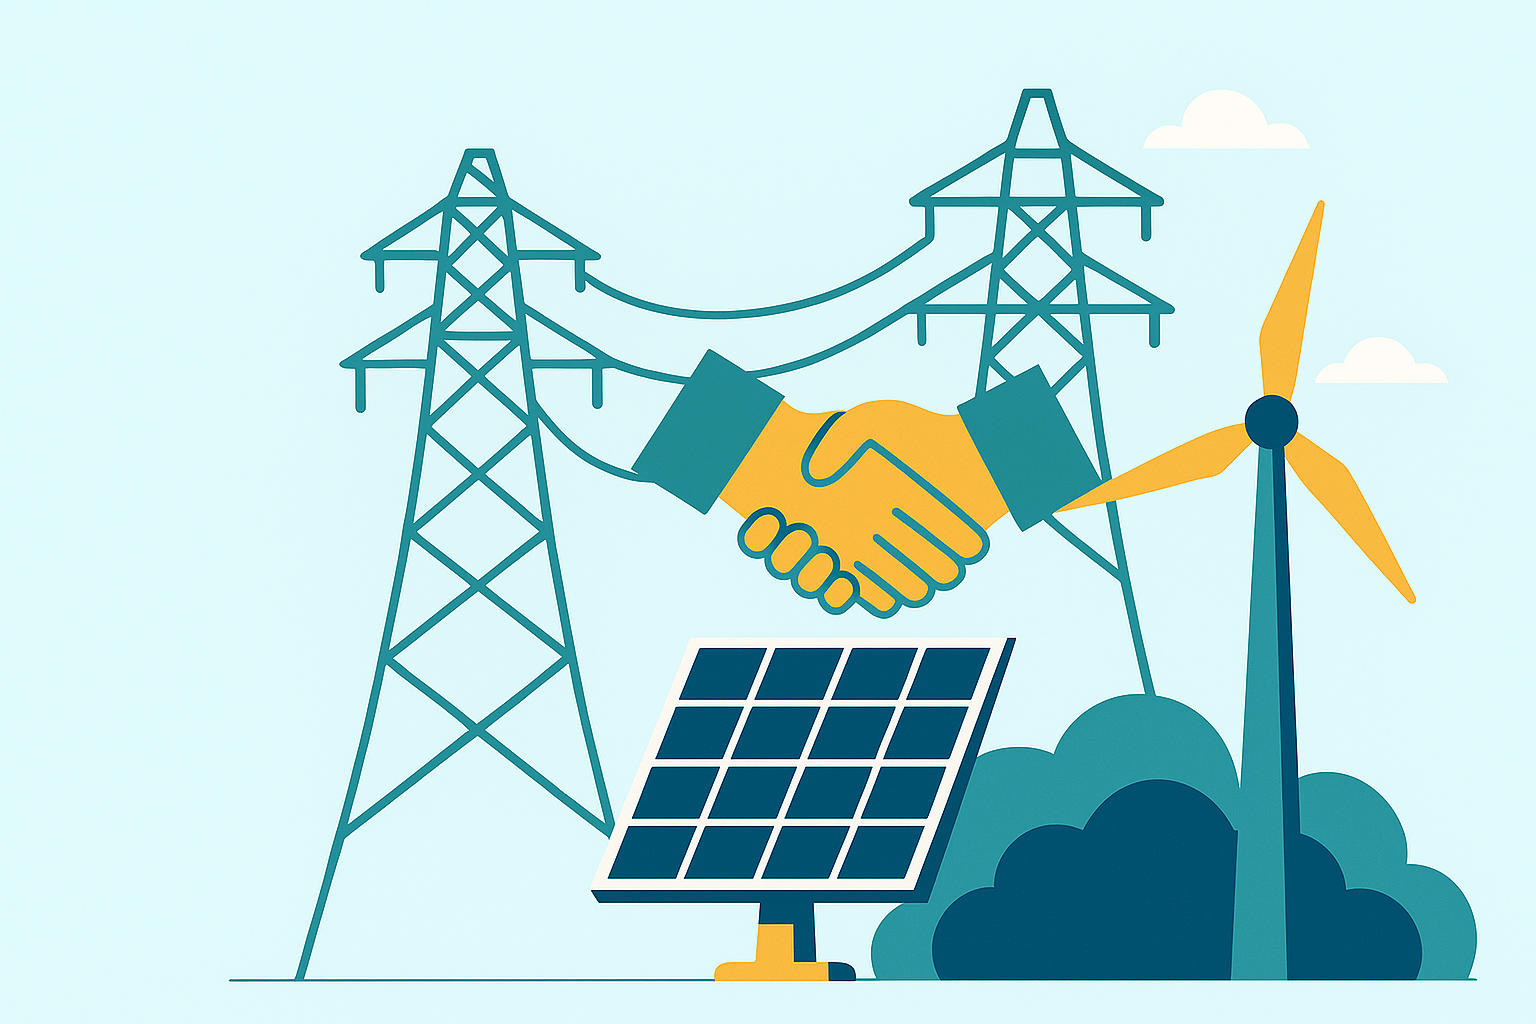
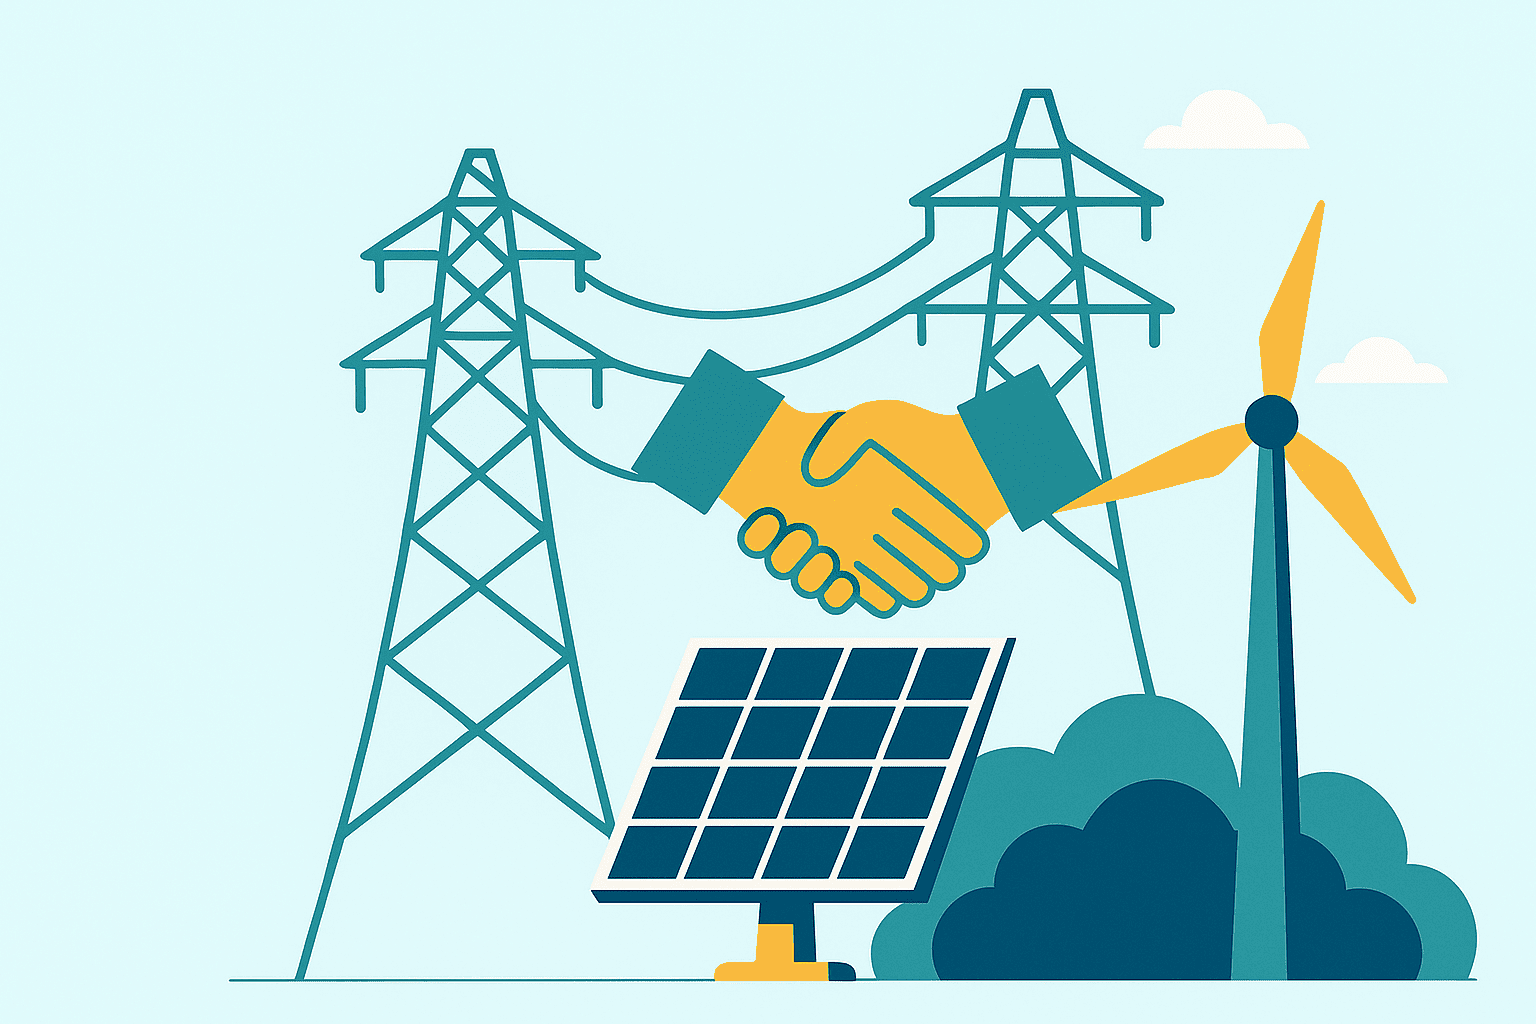
Version 3

diff --git a/src/pages/Index.tsx b/src/pages/Index.tsx
@@ -63,42 +63,36 @@ const Index = () => {
                 <a href="#services"><Button variant="hero" size="lg">Get Started</Button></a>
               </div>
             </div>
-            <figure className="relative glass rounded-xl p-2 hover-scale md:ml-8 lg:ml-12 md:scale-105 lg:scale-110 origin-center transition-transform">
-              <img src={heroImage} alt="Strategic energy and power consulting across solar, wind, and modern power markets" className="w-full rounded-lg border shadow-sm" />
+            <figure className="relative glass rounded-xl p-0 hover-scale md:ml-8 lg:ml-12 md:scale-105 lg:scale-110 origin-center transition-transform bg-[#E6FFFF] translate-x-[120px] overflow-hidden">
+              <div
+                aria-hidden
+                className="pointer-events-none absolute inset-0 -z-10"
+                style={{
+                  background:
+                    "radial-gradient(60% 50% at 60% 70%, rgba(0,0,0,0.18) 0%, rgba(0,0,0,0.12) 30%, rgba(0,0,0,0.06) 55%, rgba(0,0,0,0) 80%)",
+                  filter: "blur(8px)",
+                  opacity: 0.4,
+                  transform: "translateY(6px)",
+                }}
+              />
+              <img src={heroImage} alt="Strategic energy and power consulting across solar, wind, and modern power markets" className="w-full rounded-lg shadow-none" />
+              <div
+                aria-hidden
+                className="pointer-events-none absolute inset-0 rounded-lg"
+                style={{
+                  background:
+                  "linear-gradient(to left, #dbeff8 0%, rgba(230,255,255,0) 5%)," +
+                  "linear-gradient(to right, #dbf0f3 0%, rgba(230,255,255,0) 45%)," +
+                    "linear-gradient(to left, #dbeff8 0%, rgba(230,255,255,0) 15%)," +
+                    "linear-gradient(to bottom, #dbf0f4 0%, rgba(230,255,255,0) 15%)," +
+                    "linear-gradient(to top,  #dbf0f4 0%, rgba(230,255,255,0) 1%)",
+                  mixBlendMode: "normal",
+                }}
+              />
             </figure>
           </div>
         </section>
 
-        {/* Why choose us ? */}
-        <section id="why" className="relative container py-16 md:py-24 bg-muted/30 rounded-xl overflow-hidden">
-          <div className="pointer-events-none absolute -z-10 top-0 right-0 h-40 w-40 rounded-full bg-primary/10 blur-2xl" aria-hidden />
-          <div className="pointer-events-none absolute -z-10 bottom-0 left-0 h-48 w-48 rounded-full bg-accent/20 blur-3xl" aria-hidden />
-          <div className="mx-auto w-[calc(100%-20px)] max-w-6xl space-y-6">
-            <h2 className="text-3xl font-bold tracking-tight text-center">Why Choose Us ?</h2>
-            <p className="text-muted-foreground text-base md:text-lg leading-relaxed text-justify">
-              As a trusted power-sector consultancy, TESL combines regulatory insight, technical depth,
-              and a results-focused approach to deliver lasting value.
-            </p>
-            <div className="grid gap-8 md:grid-cols-2">
-              <div className="space-y-4">
-                <h3 className="text-lg font-semibold">Expert Consultants</h3>
-                <p className="text-muted-foreground">A team with proven knowledge of power markets and policy.</p>
-                <h3 className="text-lg font-semibold">Cost Optimization</h3>
-                <p className="text-muted-foreground">Approaches that reduce spend and improve efficiency.</p>
-                <h3 className="text-lg font-semibold">Continuous Support</h3>
-                <p className="text-muted-foreground">End-to-end assistance from planning to execution.</p>
-              </div>
-              <div className="space-y-4">
-                <h3 className="text-lg font-semibold">Tailored Solutions</h3>
-                <p className="text-muted-foreground">Strategies customized to your business and energy goals.</p>
-                <h3 className="text-lg font-semibold">Sustainable Focus</h3>
-                <p className="text-muted-foreground">Guidance to integrate renewable and clean energy seamlessly.</p>
-                <h3 className="text-lg font-semibold">Proven Success</h3>
-                <p className="text-muted-foreground">Strong track record across industries, utilities, and renewables.</p>
-              </div>
-            </div>
-          </div>
-        </section>
 
         <br></br>
 
@@ -193,10 +187,7 @@ We craft tailored strategies that align with both national and state-level regul
 
               </p>
               <ul className="mt-2 space-y-2 text-muted-foreground">
-                <li className="flex gap-2">
-                  <CheckCircle2 className="text-primary h-6 w-6 flex-shrink-0" /> Certified
-                  specialists with proven expertise
-                </li>
+
                 <li className="flex gap-2">
                   <CheckCircle2 className="text-primary h-6 w-6 flex-shrink-0" /> Guidance
                   on multi-year tariff petitions
@@ -393,10 +384,7 @@ Using advanced financial models, we support investment planning, cost optimizati
                   <CheckCircle2 className="text-primary h-6 w-6 flex-shrink-0" /> Tariff
                   evaluation and cost modeling
                 </li>
-                <li className="flex gap-2">
-                  <CheckCircle2 className="text-primary h-6 w-6 flex-shrink-0" /> Market
-                  opportunity assessment
-                </li>
+
                 <li className="flex gap-2">
                   <CheckCircle2 className="text-primary h-6 w-6 flex-shrink-0" /> Investment
                   planning and risk analysis
@@ -407,6 +395,12 @@ Using advanced financial models, we support investment planning, cost optimizati
                 </li>
                 <li className="flex gap-2">
                   <CheckCircle2 className="text-primary h-6 w-6 flex-shrink-0" /> AI-based forecast modeling and scenario simulation
+                </li>
+                                <li className="flex gap-2">
+                  <CheckCircle2 className="text-primary h-6 w-6 flex-shrink-0" /> Energy data analytics, forecasting, and reporting
+                </li>
+                                <li className="flex gap-2">
+                  <CheckCircle2 className="text-primary h-6 w-6 flex-shrink-0" /> Renewable project development and PPA structuring 
                 </li>
               </ul>
             </div>
@@ -439,24 +433,55 @@ Each session is designed to build long-term institutional capability and drive i
               <p className="text-muted-foreground text-base md:text-lg leading-relaxed text-justify">
               </p>
               <ul className="mt-2 space-y-2 text-muted-foreground">
+                                <li className="flex gap-2">
+                  <CheckCircle2 className="text-primary h-6 w-6 flex-shrink-0" /> Market
+                  opportunity assessment workshops
+                </li>
                 <li className="flex gap-2">
                   <CheckCircle2 className="text-primary h-6 w-6 flex-shrink-0" /> Regulatory and compliance workshops
                 </li>
                 <li className="flex gap-2">
-                  <CheckCircle2 className="text-primary h-6 w-6 flex-shrink-0" /> Open access and power market operations
+                  <CheckCircle2 className="text-primary h-6 w-6 flex-shrink-0" /> Open access and power market operations workshops
                 </li>
-                <li className="flex gap-2">
-                  <CheckCircle2 className="text-primary h-6 w-6 flex-shrink-0" /> Renewable project development and PPA structuring
-                </li>
-                <li className="flex gap-2">
-                  <CheckCircle2 className="text-primary h-6 w-6 flex-shrink-0" /> Energy data analytics, forecasting, and reporting
-                </li>
+
+
               </ul>
             </div>
           </section>
 
 
         </div>
+
+        {/* Why choose us ? */}
+        <section id="why" className="relative container py-16 md:py-24 bg-muted/30 rounded-xl overflow-hidden">
+          <div className="pointer-events-none absolute -z-10 top-0 right-0 h-40 w-40 rounded-full bg-primary/10 blur-2xl" aria-hidden />
+          <div className="pointer-events-none absolute -z-10 bottom-0 left-0 h-48 w-48 rounded-full bg-accent/20 blur-3xl" aria-hidden />
+          <div className="mx-auto w-[calc(100%-20px)] max-w-6xl space-y-6">
+            <h2 className="text-3xl font-bold tracking-tight text-center">Why Choose Us ?</h2>
+            <p className="text-muted-foreground text-base md:text-lg leading-relaxed text-justify">
+              As a trusted power-sector consultancy, TESL combines regulatory insight, technical depth,
+              and a results-focused approach to deliver lasting value.
+            </p>
+            <div className="grid gap-8 md:grid-cols-2">
+              <div className="space-y-4">
+                <h3 className="text-lg font-semibold">Expert Consultants</h3>
+                <p className="text-muted-foreground">A team with proven knowledge of power markets and policy.</p>
+                <h3 className="text-lg font-semibold">Cost Optimization</h3>
+                <p className="text-muted-foreground">Approaches that reduce spend and improve efficiency.</p>
+                <h3 className="text-lg font-semibold">Continuous Support</h3>
+                <p className="text-muted-foreground">End-to-end assistance from planning to execution.</p>
+              </div>
+              <div className="space-y-4">
+                <h3 className="text-lg font-semibold">Tailored Solutions</h3>
+                <p className="text-muted-foreground">Strategies customized to your business and energy goals.</p>
+                <h3 className="text-lg font-semibold">Sustainable Focus</h3>
+                <p className="text-muted-foreground">Guidance to integrate renewable and clean energy seamlessly.</p>
+                <h3 className="text-lg font-semibold">Proven Success</h3>
+                <p className="text-muted-foreground">Strong track record across industries, utilities, and renewables.</p>
+              </div>
+            </div>
+          </div>
+        </section>
 
         {/* Sectors We Serve */}
         <section id="sectors" className="relative container py-16 md:py-24 bg-gradient-to-b from-background to-muted/30 rounded-xl overflow-hidden">
@@ -509,7 +534,14 @@ Each session is designed to build long-term institutional capability and drive i
               </CardHeader>
               <CardContent className="pt-0">
                 <p className="text-sm md:text-base text-muted-foreground leading-relaxed text-justify">
-                  Mr. Viswanathan is a seasoned power systems expert with over three decades of experience spanning transmission engineering, grid integration, and advanced renewable-energy technologies. He has led critical assignments in system planning, load-flow studies, protection coordination, and network stability assessment for utilities and large industrial consumers. His background includes extensive work integrating renewable and distributed energy resources (DERs) into utility networks, evaluating grid readiness, and developing smart‑grid and automation strategies.
+An energy-sector leader with a foundation in Finance and Commerce, bringing decades of experience across India’s power industry.
+Led the top-line and bottom-line of a successful electricity trading business for over fifteen years.
+Worked closely with state utilities, private generators, central government corporations, and large industrial consumers.
+Deep exposure to power markets, commercial strategy, and operations across the subcontinent.
+Experienced in business development, organisational leadership, customer relations, and human-resource management.
+Two decades of hands-on involvement in regulatory and policy analysis across multiple forums.
+Actively engaged with Government, regulators, policymakers, and sector stakeholders.
+Provided strategic inputs on technical, legal, commercial, and policy matters affecting the energy ecosystem.
                 </p>
               </CardContent>
             </Card>

diff --git a/src/components/site/Header.tsx b/src/components/site/Header.tsx
@@ -17,11 +17,11 @@ const Header = () => {
         </Link>
         <nav className="hidden gap-6 md:flex" aria-label="Primary navigation">
           <a href="/" className="text-sm text-muted-foreground hover:text-foreground transition-colors">Home</a>
-          <a href="#why" className="text-sm text-muted-foreground hover:text-foreground transition-colors">Why choose us ?</a>
+          <a href="#about" className="text-sm text-muted-foreground hover:text-foreground transition-colors">About</a>
           <a href="#services" className="text-sm text-muted-foreground hover:text-foreground transition-colors">Services</a>
+          <a href="#why" className="text-sm text-muted-foreground hover:text-foreground transition-colors">Why choose us ?</a>
           <a href="#sectors" className="text-sm text-muted-foreground hover:text-foreground transition-colors">Sectors we serve</a>
           <a href="#team" className="text-sm text-muted-foreground hover:text-foreground transition-colors">Our Team</a>
-          <a href="#about" className="text-sm text-muted-foreground hover:text-foreground transition-colors">About</a>
           <a href="#contact" className="text-sm text-muted-foreground hover:text-foreground transition-colors">Contact</a>
         </nav>
         <div className="flex items-center gap-2">
